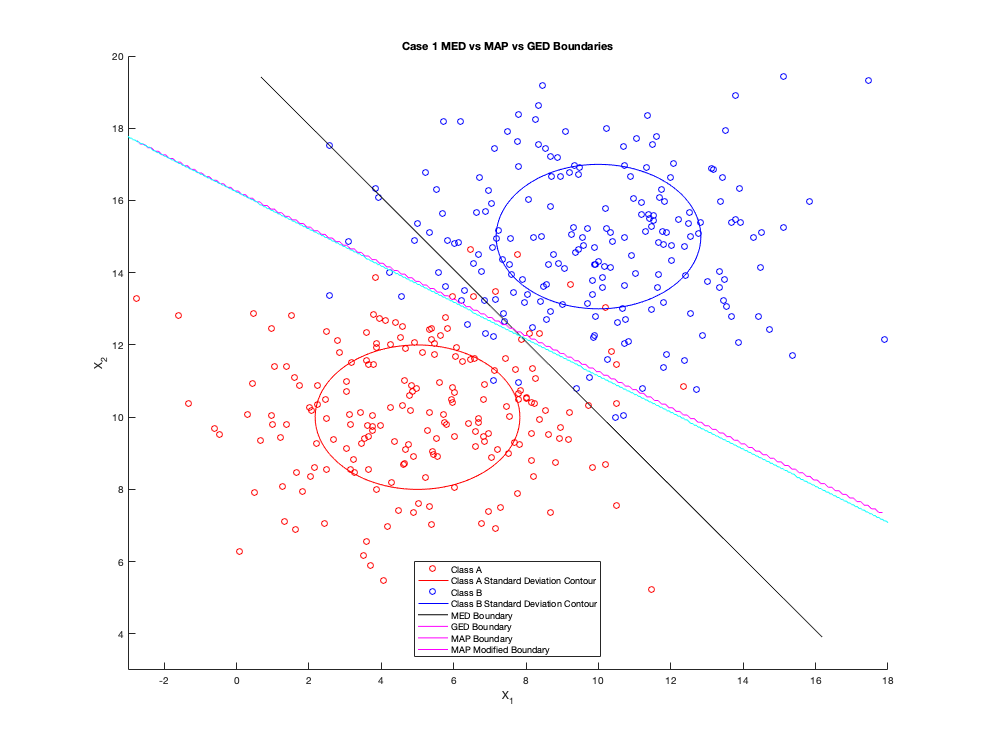
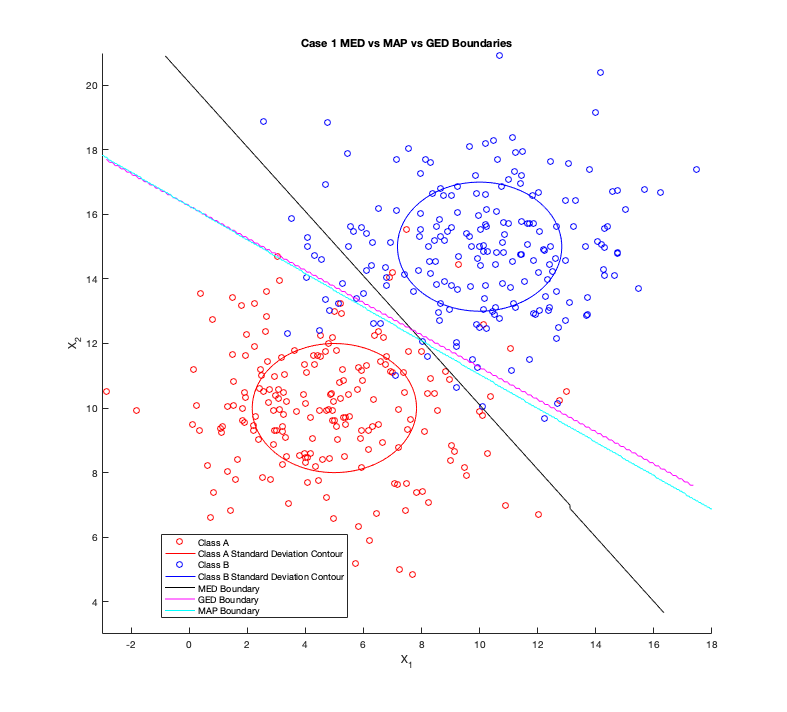
cleaning up figures

diff --git a/Lab1/lab1.m b/Lab1/lab1.m
@@ -63,15 +63,15 @@ MED();
 ged2();
 map();
 % map2();
-nn_knn();
+% nn_knn();
 
 figure(1);
 title("Case 1 MED vs MAP vs GED Boundaries");
 legend("Class A", "Class A Standard Deviation Contour", "Class B", "Class B Standard Deviation Contour", ...
-    "MED Boundary","GED Boundary","MAP Boundary","MAP Modified Boundary",'Location', 'best')
+    "MED Boundary","","","GED Boundary","","","MAP Boundary",'Location', 'best')
 
 figure(2);
 title("Case 2 MED vs MAP vs GED Boundaries");
 legend("Class C", "Class C Standard Deviation Contour", "Class D", "Class D Standard Deviation Contour", "Class E", "Class E Standard Deviation Contour", ...
-    "MED Boundary","","","GED Boundary","","","MAP Boundary","","","MAP Modified Boundary",'Location', 'best')
+    "MED Boundary","","","GED Boundary","","","MAP Boundary",'Location', 'best')
 
